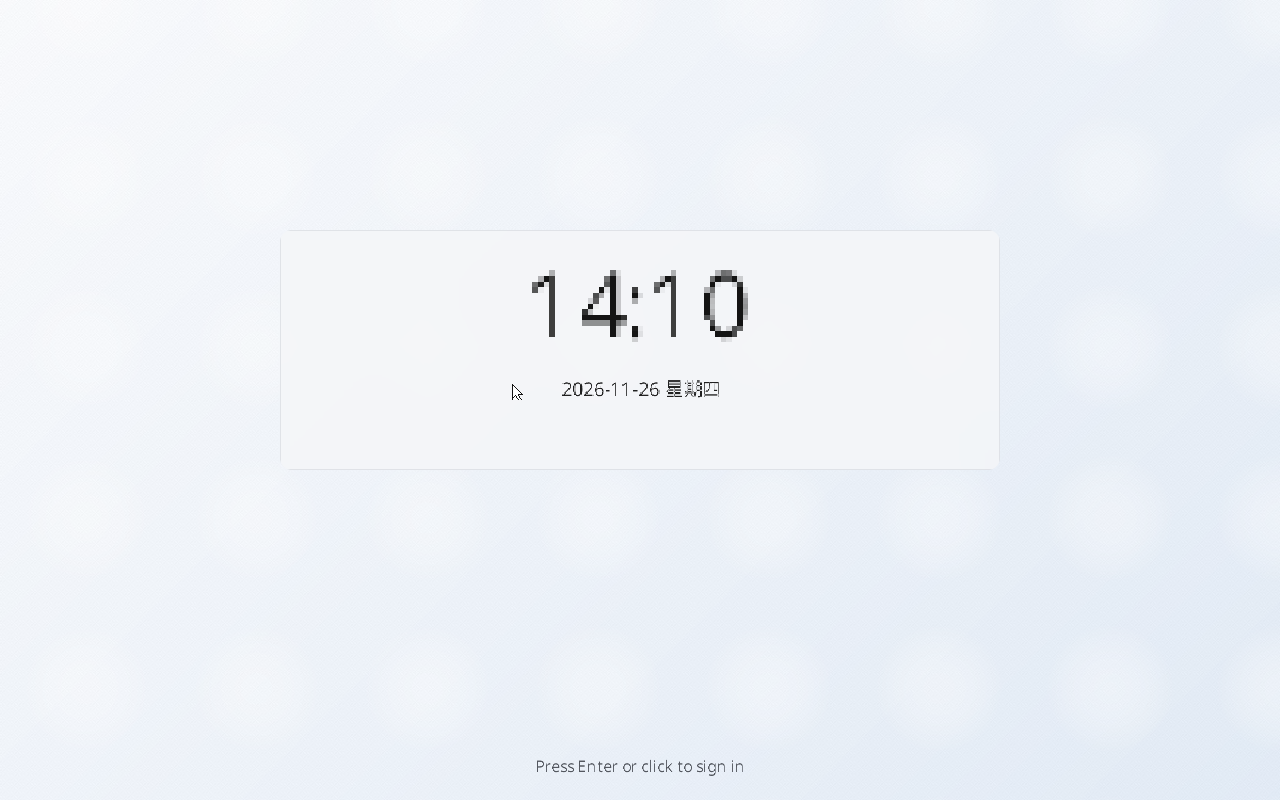
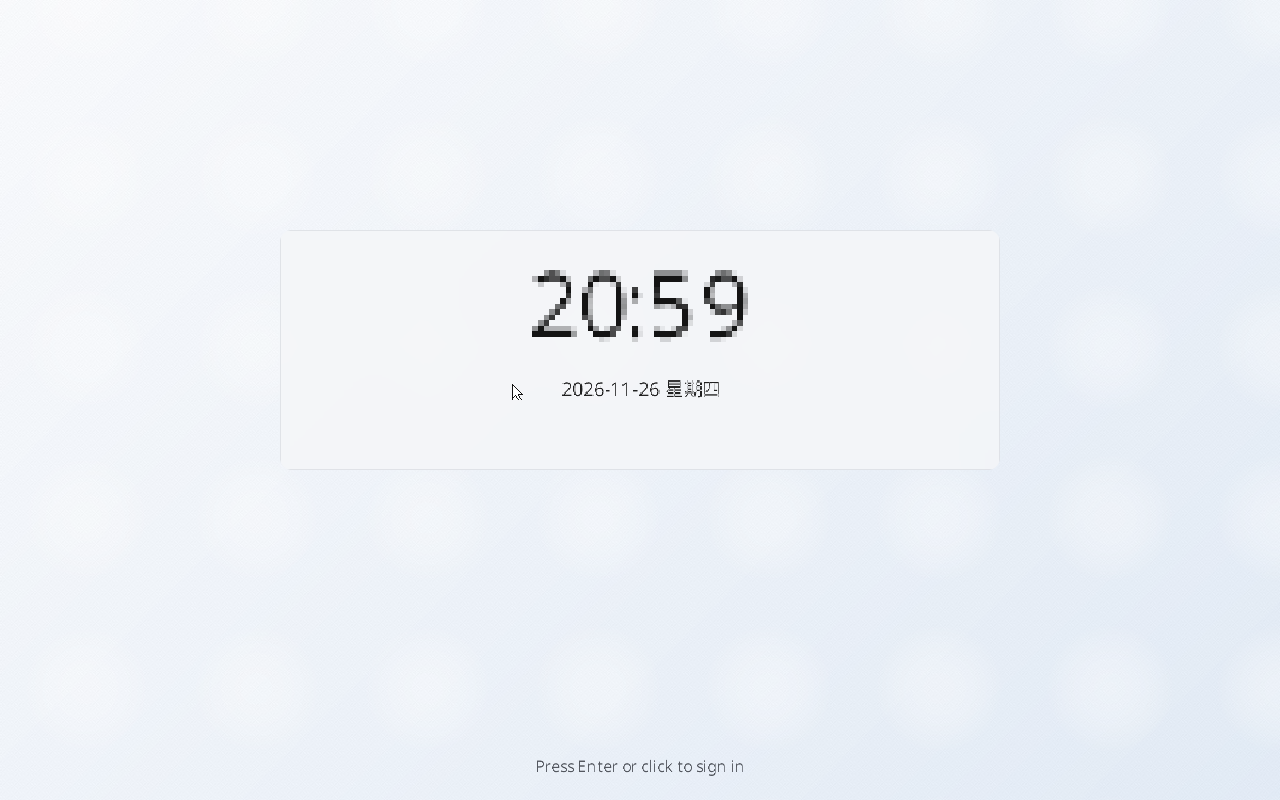
docs(handover): v0.12.4 netsurf-ready 封存单 + 下一步严格路线图 + README 头图重拍
交接单 docs/handover/HANDOVER_v0124_netsurf_ready.md（246 行）：
- §2 现场四条核对（HEAD 5ce56c4a / status / 内核 3,597,216 B / qemu=0）
- §3 已完成能力表（不要重做）：TLS 1.3 真连通 22/22、14 库 501 .c / 3,885,334 B、
  whole-archive 门禁 [NSLINK] ALL OK
- §4 五步路线（不许跳步）：
  ① smoke 装卷在客人里真跑（ns_pack_win.py / nssmoke64_test.py / [SMOKE] root=html + result=PASS）
  ② content/fetchers/vimtu.c（HTTP/1.1 GET，HTTPS 复用 httpsprobe.c 的 mbedtls_ssl_set_bio）
  ③ frontends/vimtu/（wl_surface 画布 + Edge 风格外壳：标签页/地址栏/前进后退/下载管理）
  ④ NetSurf 本体 ~340 .c（content/ 78 + desktop/ 31 + utils/ 31 + render/）
  ⑤ 发版门槛
- §5 坑清单 9 条 / §6 接口速查 / §7 改动文件 / §8 复现命令 / §10 纪律

HANDOVER.md：索引表顶部追加 v0124_netsurf_ready 一行（旧行一字未动）。

README 头图重拍（tools/shots_fresh.py --only 01_lock,02_desktop）：
- 01_lock.png    1280x800 371,879 B ink=99.8%
- 02_desktop.png 1280x800 436,238 B ink=100.0%
- tools/shots_fresh.py 新增 --only（只拍指定几张，省时间），默认行为不变（9 张全拍）

Changed region(s): [[0.4062, 0.3125, 0.5938, 0.4375]]

diff --git a/tools/shots_fresh.py b/tools/shots_fresh.py
@@ -118,6 +118,9 @@ def main():
     ap.add_argument("--img", default=os.path.join(ROOT, "build64", "system.img"))
     ap.add_argument("--out", default=os.path.join(ROOT, "docs", "images"))
     ap.add_argument("--port", type=int, default=5693)
+    # ★ v0.12.5：--only 01_lock,02_desktop 只拍指定的那几张（拍 README 头图时用，省时间）。
+    #   取值是产物名（不带 .png）；不给就是 9 张全拍。
+    ap.add_argument("--only", default=None)
     args = ap.parse_args()
 
     qemu = find_qemu()
@@ -156,6 +159,13 @@ def main():
                 return False
             time.sleep(0.25)
         return False
+
+    want = None
+    if args.only:
+        want = set(x.strip() for x in args.only.split(",") if x.strip())
+
+    def need(name):
+        return want is None or name in want
 
     shots = []
     try:
@@ -198,7 +208,8 @@ def main():
         if not wait_for("[LOCK64] bg blur ready", 240):
             print("环境问题：等不到锁屏就绪")
             return 2
-        shot("01_lock", settle=1.5)
+        if need("01_lock"):
+            shot("01_lock", settle=1.5)
 
         print("=== 2) 回车两次进桌面 ===")
         mon.key("ret", wait=1.2)
@@ -206,7 +217,12 @@ def main():
         if not wait_for("[GUI64] ready", 200):
             print("环境问题：进不了桌面")
             return 2
-        shot("02_desktop", settle=2.5)
+        if need("02_desktop"):
+            shot("02_desktop", settle=2.5)
+
+        # --only 只要锁屏/桌面时，到这里就收工（后面的应用窗口一张都不拍）
+        if want is not None and not any(n.startswith(("03", "04", "05", "06", "07", "08", "09")) for n in want):
+            raise SystemExit(0)
 
         print("=== 3) 开始菜单（Win 键）===")
         mon.key("meta_l", wait=1.8)
@@ -272,7 +288,8 @@ def main():
     print("\n共 %d 张 -> %s" % (len(shots), args.out))
     for n, w, h, r in shots:
         print("  %-14s %dx%d ink=%.1f%%" % (n, w, h, r * 100))
-    return 0 if len(shots) >= 9 else 1
+    expected = 9 if want is None else len([n for n in want if n[:2].isdigit()])
+    return 0 if len(shots) >= expected else 1
 
 
 if __name__ == "__main__":

diff --git a/docs/handover/HANDOVER_v0124_netsurf_ready.md b/docs/handover/HANDOVER_v0124_netsurf_ready.md
@@ -1,0 +1,246 @@
+# HANDOVER v0.12.4 · netsurf-ready —— 浏览器落地的**下一段**从这两份文件开始
+
+- 日期：2026-11-26
+- 版本链：`0.12.4`（**已发布**，tag `v0.12.4` → commit `3195826a`，Release **`459287202`**）
+- 本单 HEAD：`5ce56c4a`（= 远端 `main`，tree 回读 14,764 项 / bad=0）
+- 内核映像：**3,597,216 B**（本单阶段**零内核改动**；与发版那颗逐字节相同）
+- 前置单（按顺序读）：
+  1. `docs/handover/HANDOVER_v0124_tls.md` —— 真 HTTPS 打通（22/22 PASS）
+  2. `docs/handover/HANDOVER_v0125_netsurf_libs.md` —— 14 个依赖库 + 链接门禁（**本单是它的"下一步"部分**）
+- 用户需求原文：`C:\Users\fanqi\Desktop\网络与浏览器生态.txt`
+
+> 本单的唯一用途：**上下文快用完时封存现场**，让下一个零上下文的会话能够**直接开始写浏览器**，
+> 不需要重新摸一遍 14 个库怎么编、也不需要重新发明前端该怎么接。
+
+---
+
+## 1. 一句话
+
+v0.12.4 **已发布**（TLS 1.3 + 证书链校验 + 错证书必须失败），NetSurf 的 **14 个依赖库全部编译通过**
+且通过 **whole-archive 链接门禁**（`[NSLINK] ALL OK`）。**现在缺的只有"接起来"**：
+① 让 smoke 在客人里真跑；② `content/fetchers/vimtu.c`（socket + mbedTLS 抓取）；
+③ `frontends/vimtu/`（wl_surface 上的 Edge 风格外壳：标签页 / 地址栏 / 前进后退 / 下载管理）。
+
+---
+
+## 2. 现场（复现前先核这四条）
+
+```
+git log --oneline -3          -> 5ce56c4a / 3195826a / 585b29ab
+git status --short            -> 空（只剩仓库本来就未跟踪的 Fonts/*.ttf）
+ls -l build64/kernel64_os.bin -> 3,597,216 B   (VIMTUOS_VERSION="0.12.4")
+Get-Process qemu-system-x86_64 -> 0
+```
+
+| 项 | 值 |
+|---|---|
+| 已发布 tag | `v0.12.4`（annotated，tag 对象 `fb0cf8e8…` → commit `3195826a`） |
+| 已发布 Release | **`459287202`**（draft=false / pre=false，2 附件） |
+| ISO | 94,529,536 B `sha256:16ebe7fb21b2dc31379544f5e08758a89e0bcd36f99db21a2d9887a771ab553d` |
+| IMG | 43,754,496 B `sha256:362265b2b091fc2a58a5af73ee89c60f440d1c2e5416d0d2dff8312d45601fca` |
+| 旧版 v0.12.2 附件 | img `794084066` / iso `794082828`：id+size+digest+updated_at **逐条未动** |
+| NetSurf 库产物 | `build64/netsurf/lib/*.a` —— 14 个，合计 **3,885,334 B**（**不进仓**） |
+| mbedTLS 产物 | `build64/mbedtls/libmbedtls.a` = 1,527,458 B |
+| 上游源码 | `third_party/{mbedtls,netsurf,expat,zlib,ca}/`（**不进仓**，脚本按钉死版本现拉） |
+
+---
+
+## 3. 已经做完的（不要重做）
+
+| 能力 | 判据 | 在哪 |
+|---|---|---|
+| 内核 socket 层（TCP 按序号收/64 KiB 窗口/校验和/RTO/网关/本机地址） | `https64_test` 22/22 | `HANDOVER_v0122_net_l4.md` + `HANDOVER_v0124_tls.md` |
+| ring3 HTTPS（mbedTLS 3.6.2 + 证书链 + TLS 1.3 + 错证书失败） | `[TLS] pos handshake ok version=TLSv1.3` / `neg ret=-0x2700` | `/bin/httpsprobe`，`HANDOVER_v0124_tls.md` §3.3 |
+| 真墙钟（证书有效期判定） | `[TIME64] anchor=rtc epoch=…`（与宿主差 ~70 s） | `kernel/x86_64.cpp` `rtc_epoch64()` |
+| 14 个 NetSurf 依赖库 | `[<LIB>] cc ok=N fail=0 archive=… symbols=…` × 14 | `tools/netsurf_lib_build_win.sh` |
+| 库之间自洽（whole-archive） | `[NSLINK] whole-archive ok=1 archives=14` | `tools/netsurf_linkgate_win.sh` |
+| 库 API 真能调用（wapcaplet→hubbub→dom 解 HTML） | `[NSLINK] smoke elf=735304 … base=0x100090000` | `user/netsurf/smoke.c` |
+
+**14 个库的规模（本轮实测）**：libwapcaplet 1 / libparserutils 15 / libhubbub 31 / **libcss 306**（含 120 个
+生成的属性解析器）/ libnsgif 2 / libnsbmp 1 / libnsutils 3 / libnspsl 1 / libnslog 4 / libsvgtiny 6 /
+librosprite 1 / **libdom 96**（含 `bindings/hubbub` + `bindings/xml` 的 expat 绑定）/ expat 5 / zlib 15。
+
+**生成步骤（不做就编不过，脚本已内置）**：
+`perl make-aliases.pl`（libparserutils）/ `perl make-entities.pl`（libhubbub）/
+宿主编 `gen_parser` 生成 120 个 `autogenerated_*.c`（libcss）/ `bison -d -t --define=api.prefix={filter_}` +
+`flex --header-file`（libnslog）/ `tools/netsurf_gen_expat_config.py`（expat）。
+两个 **gperf 手写替身**：`tools/netsurf_gen_hubbub_element_type.py`（106 条）、
+`tools/netsurf_gen_svgtiny_colors.py`（147 条）。
+
+---
+
+## 4. 下一步路线图（**严格按这个顺序，不许跳步**）
+
+### ① 让 smoke 在客人里真跑（半天，**先做这个**）
+
+为什么先做它：本轮只证明了"能编 + 能链"，**没证明能在 ring3 跑起来**。
+库里的 `malloc/free`、`wcrtomb`、`getenv`、浮点、`strtod` 等一旦在客人里缺东西，
+现在就会发现，而不是等浏览器写到一半才发现。
+
+| 子步 | 做法 | 判据（硬） |
+|---|---|---|
+| ①-1 装卷 | `tools/ns_pack_win.py`（**照抄 `tools/tls_pack_win.py`**）：`/bin/nssmoke` = `build64/netsurf/smoke/smoke.elf`，`--fixture-img` 模式写 `/etc/ns_smoke.on` | `卷内读回 /bin/nssmoke … 宿主 sha256=… 卷内 sha256=…` 一致 |
+| ①-2 启动钩子 | `kernel/kernel64.cpp` 里再写一段（**照抄 `[TLS64]` 那段**，真进程路径 `proc64_create64 + proc64_start_elf64`，看门狗 pause/unpause，240 s 有界等待；`elf64_run64` 会 `reject reason=busy`） | `[NSSMOKE] probe on flag=/etc/ns_smoke.on` + `[NSSMOKE] done pid-exit rc=0 code=0` |
+| ①-3 验收脚本 | `tests/nssmoke64_test.py`（照抄 `tests/https64_test.py` 的骨架：造夹具盘 → 起 QEMU → 读串口 → 逐条断言） | 串口出现 `[SMOKE] root=html` + `[SMOKE] result=PASS`；无 `#PF`；跑完桌面栈照常起来 |
+| ①-4 缺什么补什么 | 若 `#PF` / `-ENOSYS`：**按 syscall 号在 `kernel/syscall64.cpp` 补**（不移植整个 POSIX）；musl 缺的纯计算函数补进 `user/netsurf/libm_shim.c` 那种 shim | 每次补完重跑 ①-3，判据不放宽 |
+
+> 已知可能要碰的：`clock_gettime`（已有）、`gettimeofday`、`stat`/`fstat`（文件大小/时间）、
+> `lseek`、`read` 大块、`mmap` 匿名大块（libcss 的样式表缓冲）、`snprintf` 的浮点格式（`%f`）。
+
+### ② `content/fetchers/vimtu.c`（1~1.5 天）
+
+- 放在 `third_party/netsurf/netsurf/content/fetchers/vimtu.c`（上游目录里加一个 fetcher，不改别的 fetcher）。
+- 只实现 **HTTP/1.1 GET**（+ 可选 HEAD）：`setup()` 解析 URL → 建 socket → `lli`（`nsurl`）；
+  `start()` 连 `connect(443/80)`；HTTPS 走 **mbedTLS**（**完全复用 `user/tls/httpsprobe.c` 的 BIO 写法**：
+  `mbedtls_ssl_set_bio` + 自写 send/recv 回调，`-EAGAIN` → `WANT_READ/WANT_WRITE`）。
+- 回调顺序（NetSurf 的约定，别自己发明）：
+  `fetch_vimtu_*` 里发 `FETCH_HEADER`（状态行 + 头）→ `FETCH_DATA`（正文字节，可分块）→
+  `FETCH_FINISHED` / `FETCH_ERROR`。
+- CA 包直接读 **`/etc/ssl/certs/ca.pem`**（v0.12.4 已随系统卷交付，118 份根证书）。
+- 判据：**宿主侧**收到 `GET / HTTP/1.1` + 客人侧 `FETCH_FINISHED` + 正文字节数 == Content-Length；
+  再跑一次"错证书站点"必须 `FETCH_ERROR`（不许静默降级）。
+
+### ③ `frontends/vimtu/`（2~3 天，**这就是"浏览器壳子"**）
+
+以 NetSurf 自带的 **`frontends/framebuffer/`** 为模板（最小、无 GUI 工具包依赖），实现这些表：
+
+| 要实现的 | 我们这边对应什么 |
+|---|---|
+| `gui_table`：`window_create/destroy/invalidate/get_dimensions/set_url/set_title/set_status/set_scroll/…` | `wl_surface_create(15)` + `shm_create(13)`/`shm_map(14)` 拿画布 → `attach(16)/damage(17)/commit(18)` |
+| `plot_table`：`rectangle/line/polygon/fill/bitmap/text/clip/flush` | 画到自己的 shm 画布（`fb_*` 风格），圆角/阴影按 `gui_rs` 的 Token |
+| `fb_table`（字体） | **内核光栅化 12 号 ABI**（`font64`），CJK 走 `subset` 字库（v0.11.x 已有） |
+| `bitmap_table` | 32bpp 位图（libnsbmp/libnsgif/libsvgtiny 解出来的就是它） |
+| `utf8` / `search` / `clipboard`（可选） | 先留空实现，别为了它们卡进度 |
+| 事件 | `input_poll` + `wl_seat_post(26)` 的鼠标/键盘 → NetSurf 的 `browser_window_*` |
+
+**Edge 风格外壳的 UI 规格（用户原话的落地）**：
+
+- **标签页条**（高 40 px）：圆角 8 px、当前页高亮、`+` 新标签、"×"关闭（关闭要真的 `browser_window_destroy`）；
+- **地址栏**（高 40 px）：左侧 ⓘ、中间输入框（默认 `bing.com`，输入即搜索）、右侧刷新/收藏；
+- **前进/后退/主页/刷新** 四按钮（状态由 `browser_window_get_*` 真值驱动，**不是假灰**）；
+- **下载管理**：NetSurf 的 `download_context` → 落 `/Downloads/<文件名>`，进度条 + 取消；
+- **状态栏**（高 24 px）：显示 `browser_window` 的 status + 进度；
+- 判据：**像素**（打开 `example.com` 后正文区有墨迹、地址栏有 URL 文本）+ 点链接能触发下载 +
+  下载完成后宿主侧 sha256 与客人 `/Downloads` 内文件一致。
+
+### ④ 把 NetSurf 本体编起来（约 340 个 .c）
+
+- 需要：`netsurf/content/`（78 .c）+ `netsurf/desktop/`（31）+ `netsurf/utils/`（31）+ `netsurf/render/` + `netsurf/css/`…
+  **本轮的 `tools/netsurf_lib_build_win.sh` 可以直接照抄成第 15、16… 个条目**（加 `SRC_DIRS` 与 `INCS` 即可）。
+- 依赖检查顺序：先 `desktop/` + `utils/`（少依赖），再 `content/`，最后 `render/` + `frontends/vimtu/`。
+- 需要 `-DWITH_NSLOG`（libnslog 已就绪）、`-DNETSURF_USE_*`（全部关掉不需要的：`_SVG=1`、`_BMP=1`、`_GIF=1`、
+  `_PNG` 关、`_JPEG` 关、`_RSVG` 关、`_WEBP` 关）。
+
+### ⑤ 发版门槛（v0.12.5 / v0.12.6 什么时候能发）
+
+必须同时满足：① `version64_test` 8/8；② `https64_test` 22/22；③ `rand64_test` 17/17；
+④ `netping64_test` PASS；⑤ **`nssmoke64_test` PASS**（①的产物）；⑥ **`browser64_test`**：
+真站点取回 + 正文像素判据 + 下载 sha256；⑦ `iso64_test` 不回归。
+缺一条就**只提交代码 + 交接单，不发版**。
+
+---
+
+## 5. 坑清单（本轮新踩的，按会咬人排序）
+
+1. **`--whole-archive` 才是"能用"的判据**。静态库默认只拉被引用的成员，"链上了"什么都证明不了。
+   它一次抓出 4 类真问题：`fabs/fabsf` 缺对象、libcss `} _ALIGNED;` 的重复符号、
+   生成器程序自带 `main` 混进 `.a`、libdom 的 `bindings/` 不在 `src/` 下。
+2. **`ls dir/*.c` ≠ `find`**：libcss 的 `src/select` 有 4 层子树，按 `dir/*.c` 只编到 **59/187**，
+   而 `cc ok=59 fail=0` 看着像成功 —— **残废的绿**。一律用 `find … -name '*.c'` + `sort -u`。
+3. **生成器程序要排除、obj 目录要每次清空**：否则被排除文件上次的 `.o` 还在，照样被打进归档。
+4. **libnslog 的 bison 必须带 `api.prefix={filter_}`**（官方按 bison 大版本切换）；
+   不带就只有 `yyparse`，而 `filter.c` 调的是 `filter_parse`。
+5. **msys2 没有 `llvm-nm`**（只有 `nm.exe`）；符号数判据要匹配 `^[0-9a-f]+ [TDBR] `。
+6. **静态 musl 程序要自写 `_start`**（musl 的 crt1.o 有 `lea _DYNAMIC(%rip)`，在 4 GiB+ 的静态非 PIE
+   映像里无处解析 → 产物只剩 2 KB 空壳）。样例：`user/tls/httpsprobe.c`、`user/netsurf/smoke.c`。
+7. **大映像必须链接在 `0x100090000`**（= `USER64_MMAP_VA64`）：内核 mode-2 装载算
+   `base = find_free(USER64_MMAP_VA64, span) - min_vaddr`，基址不等于它就 `base != 0`、绝对地址全错位。
+8. **内核启动期跑用户程序只能用真进程路径**（`app64_run_any64` 在合成器活着时会
+   `[ELF64] reject reason=busy`）。
+9. **QEMU `sendkey` 在 1 fps GUI 下丢字/吞长命令**：所有验收一律"夹具卷开关 + 读串口"，不发键盘
+   （除非就是要按回车进桌面，且按键后**必须读回证据**再继续）。
+
+---
+
+## 6. 关键机制与接口速查（写浏览器时会反复用）
+
+### 6.1 内核 socket / TLS（ring3 可用）
+- `socket(41) / connect(42) / sendto(44) / recvfrom(45) / sendmsg(46) / recvmsg(47) / close(3) / poll(7)`；
+- `-EAGAIN` = 超时（只有 FIN/RST 才返回 0）；`poll` 看得见 socket（`sock64_ready64`）；
+- mbedTLS：`mbedtls_ssl_set_bio(ssl, &bio, bio_send, bio_recv, NULL)`，BIO 回调里
+  `send/recv`，`-EAGAIN → MBEDTLS_ERR_SSL_WANT_WRITE/READ`。**完整样例见 `user/tls/httpsprobe.c`**。
+
+### 6.2 画布 / 窗口（ring3）
+`shm_create(13)` → `shm_map(14)`（拿到像素）→ `wl_surface_create(15)` → `attach(16)` /
+`damage(17)` / `commit(18)`；窗口装饰 `wl_surface_set_decor(28)`、标题 `wl_surface_title(29)`、
+控制 `wl_surface_ctl(30)`；`input_poll` + `wl_seat_post(26)` 收回输入。
+**样例：`user/viewer/viewer.c`（图片查看器，最接近"浏览器外壳"的现有骨架）+ `user/lib/wl.c`。**
+
+### 6.3 字体
+内核光栅化 12 号 ABI（`font64`）；CJK 走构建期子集（`build/font_*.ttf`）；
+`user/lib/font64.c` 是 ring3 版本的同一套实现（可参考它的度量）。
+
+---
+
+## 7. 本单阶段改动（v0.12.4 发版之后）
+
+| 文件 | 性质 |
+|---|---|
+| `tools/netsurf_lib_build_win.sh` | 14 个库的参数化编译（依赖表 / 生成步骤 / EXCLUDE / RECURSE / `-fcommon`） |
+| `tools/netsurf_linkgate_win.sh` | whole-archive 门禁 + smoke 真链接 + ELF 硬约束自检 |
+| `tools/netsurf_gen_hubbub_element_type.py` / `netsurf_gen_svgtiny_colors.py` / `netsurf_gen_expat_config.py` | gperf 替身 ×2 + expat 配置生成 |
+| `user/netsurf/smoke.c` / `user/netsurf/libm_shim.c` | 库栈 API 自证程序 + `fabs/fabsf` |
+| `tools/shots_fresh.py` | 新增 `--only 01_lock,02_desktop`（只拍头图，省时间） |
+| `docs/images/01_lock.png`、`02_desktop.png` | 用当前构建**重拍**（README 头图） |
+| `docs/handover/HANDOVER_v0125_netsurf_libs.md` | 14 个库的详细记录（坑清单在它的 §5） |
+| `docs/handover/HANDOVER_v0124_netsurf_ready.md` | **本单** |
+
+**内核零改动**（本单阶段一行 `kernel/` 都没碰）。
+
+---
+
+## 8. 复现命令（照抄可用）
+
+```powershell
+cd C:\Users\fanqi\Desktop\VimtuOS\Vimtu64
+
+# 上游源码（幂等）
+py -3 tools\fetch_port_sources.py
+
+# 14 个依赖库（clean build 2~3 分钟）
+C:\msys64\usr\bin\bash.exe -lc "bash tools/netsurf_lib_build_win.sh"
+
+# 链接门禁（必须 ALL OK 才继续往下做）
+C:\msys64\usr\bin\bash.exe -lc "bash tools/netsurf_linkgate_win.sh"
+
+# README 头图重拍（只拍锁屏 + 桌面；读串口作证据）
+py -3 tools\shots_fresh.py --only 01_lock,02_desktop
+
+# 已发布的验收（回归用）
+py -3 tests\https64_test.py      # 22/22
+py -3 tests\version64_test.py    # 8/8
+py -3 tests\rand64_test.py       # 17
+py -3 tests\netping64_test.py    # PASS
+```
+
+---
+
+## 9. 接手须读（顺序）
+
+1. 本单 —— 下一步做什么、按什么顺序、判据是什么。
+2. `docs/handover/HANDOVER_v0125_netsurf_libs.md` —— 14 个库怎么编、坑清单。
+3. `docs/handover/HANDOVER_v0124_tls.md` —— TLS 的完整实现与两个 mbedTLS 陷阱（PEM 的 NUL、熵源）。
+4. `tools/netsurf_linkgate_win.sh` 顶部注释 —— 为什么必须 whole-archive。
+5. `user/tls/httpsprobe.c` 文件头 + `user/viewer/viewer.c` —— 一个是最小 TLS 客户端，
+   一个是最接近"浏览器外壳"的现有 ring3 GUI 程序。
+6. `docs/内核边界与架构规则.md` —— **HTML/CSS/DOM/渲染必须在 ring3**，内核只给 socket/时间/网关/画布。
+
+---
+
+## 10. 纪律（全部来自本仓血账，不许破例）
+
+- 结论必须有**串口打点 / 像素判据 / 宿主侧独立解析**三者之一；拿不到就写 `UNVERIFIED`。
+- **"部分绿"不许冒充"全绿"**；判据与事实不符时先修脚本，**但不许放宽强度**。
+- 长跑/回归一律串行（8 GB 宿主）；收尾必须 `Get-Process qemu-system-x86_64` = 0、`git status --short` 空。
+- `PowerShell` 内联 `py -3 -c` 带中文/引号极易挂 → **一律写 `.py` 文件**。
+- `Edit` 工具行号极易错位 → 改前必须 fresh `Read`；批量改优先写 python 按**唯一字面串**替换并 `assert count==1`。

diff --git a/HANDOVER.md b/HANDOVER.md
@@ -12,6 +12,7 @@
 
 | 文件 | 日期 | 版本串 | HEAD | 一句话 |
 |---|---|---|---|---|
+| [HANDOVER_v0124_netsurf_ready.md](docs/handover/HANDOVER_v0124_netsurf_ready.md) | 2026-11-26 | 0.12.4（**已发版**：tag `v0.12.4` / Release `459287202`；本单零代码改动） | `5ce56c4a` | **封存单 + 写浏览器前的严格路线图** —— §2 现场四条核对 + §3“不要重做”的能力表（TLS 1.3 真连通 22/22、14 个库 501 .c / 3,885,334 B、`[NSLINK] whole-archive ok=1 archives=14` / `ALL OK`）+ **五步路线（不许跳步）**：① **smoke 装卷在客人里真跑**（`tools/ns_pack_win.py` 照抄 `tools/tls_pack_win.py`；`kernel/kernel64.cpp` 照抄 `[TLS64]` 真进程钩子 `proc64_create64 + proc64_start_elf64`，`elf64_run64` 会 `reject reason=busy`；`tests/nssmoke64_test.py` 判据 `[SMOKE] root=html` + `[SMOKE] result=PASS`；缺 syscall 按号在 `kernel/syscall64.cpp` 补，预计 `gettimeofday`/`stat`/`lseek`/`mmap` 匿名大块/`snprintf` 的 `%f`）→ ② **`content/fetchers/vimtu.c`**（只做 HTTP/1.1 GET；HTTPS **完全复用 `user/tls/httpsprobe.c` 的 `mbedtls_ssl_set_bio` + 自写 send/recv 回调**，`-EAGAIN` → `WANT_READ/WANT_WRITE`；CA 读 `/etc/ssl/certs/ca.pem`；回调顺序 `FETCH_HEADER` → `FETCH_DATA` → `FETCH_FINISHED`/`FETCH_ERROR`；判据=宿主见到 `GET / HTTP/1.1` + 字节数==Content-Length + 错证书必须 `FETCH_ERROR`）→ ③ **`frontends/vimtu/`**（以 NetSurf 自带 `frontends/framebuffer/` 为模板，实现 `gui_table`/`plot_table`/`fb_table`/`bitmap_table` → `wl_surface_create(15)` + `shm_create(13)`/`shm_map(14)` 画布 + `attach(16)/damage(17)/commit(18)`；**Edge 风格外壳规格**：标签页条 40 px/圆角 8 px/`+`/`×` 真 `browser_window_destroy`、地址栏 40 px 默认 `bing.com`、前进后退主页刷新四按钮按 `browser_window_get_*` 真值、下载管理 `download_context` → `/Downloads/<文件名>`、状态栏 24 px；判据是**像素**）→ ④ 把 NetSurf 本体 ~340 .c 编起来（`content/` 78 + `desktop/` 31 + `utils/` 31 + `render/`，`tools/netsurf_lib_build_win.sh` 直接扩成第 15、16 条目）→ ⑤ 发版门槛；另含 §5 坑清单 9 条、§6 接口速查（socket/TLS、画布窗口、字体 ABI）、§7 改动文件、§8 复现命令、§10 纪律 |
 | [HANDOVER_v0125_netsurf_libs.md](docs/handover/HANDOVER_v0125_netsurf_libs.md) | 2026-11-26 | 0.12.5 阶段（**未 bump**，零内核改动） | 见 git log | **NetSurf 全家桶 14 个库全部编译 + whole-archive 链接门禁通过** —— 一条命令 clean build：libwapcaplet 1 / libparserutils 15 / libhubbub 31 / **libcss 306** / libnsgif 2 / libnsbmp 1 / libnsutils 3 / libnspsl 1 / libnslog 4 / libsvgtiny 6 / librosprite 1 / **libdom 96** / expat 5 / zlib 15 = **501 个 .c，3,885,334 B**（`[<LIB>] cc ok=N fail=0 archive=… symbols=…`）；门禁 `[NSLINK] whole-archive ok=1 archives=14` + `[NSLINK] smoke elf=735304 PT_LOAD=5 base=0x100090000 symbols=708`（静态库默认只拉被引用的成员，所以必须 whole-archive 才能证明库之间自洽；它当场抓出 4 类真问题）；两个 **gperf 手写替身**（libhubbub 元素名 106 条 / libsvgtiny 颜色 147 条，语义等价、线性查找）+ 四处生成步骤（perl aliases/entities、宿主 gen_parser 生成 **120 个 autogenerated_*.c**、bison+flex 且 **必须带 api.prefix={filter_}**、手写 expat_config.h）；坑：`-fno-builtin` 让 fabs 变外部调用而 musl 缺 `fabs.o`（补 `user/netsurf/libm_shim.c`）、libcss `} _ALIGNED;` 是变量声明（要 `-fcommon`）、生成器程序自带 main 混进 .a、`find` vs `ls dir/*.c` 让 libcss 只编到 59/187、libdom 的 bindings 不在 src 下、msys2 没有 llvm-nm。下一轮：把 smoke 装卷在客人里跑通 → `content/fetchers/vimtu.c` → `frontends/vimtu/` → `user/browser/` 壳子 |
 | [HANDOVER_v0124_tls.md](docs/handover/HANDOVER_v0124_tls.md) | 2026-11-26 | 0.12.4（**未发版**） | 见 git log | **真 HTTPS 打通（第二段）** —— ① `/bin/httpsprobe`（mbedTLS 3.6.2 + musl 静态，867,512 B）连 `example.com:443` **协商出 TLS 1.3**（TLS1-3-CHACHA20-POLY1305-SHA256），用 `/etc/ssl/certs/ca.pem`（118 份 Mozilla 根证书）**验证证书链**（`verify_flags=0`，`CN=example.com`，有效期 2026-11-24..2027-02-22），`GET /` 取回 **HTTP/1.1 200 OK**（928 B）；**错证书必须失败**（宿主自签 https → `ret=-0x2700`，宿主侧 TCP 连接数=1 / TLS 握手中途被中止=1）；`tests/https64_test.py` **22/22 PASS**（全程不发键盘，靠夹具卷 `/etc/tls_probe.on` 触发）；② 为它修掉 **5 个真缺陷**：`clock_gettime(CLOCK_REALTIME)` 返回开机秒数（→ 新增 `rtc_epoch64()` CMOS→Unix，证书有效期才判得对）、用户栈 16 KiB 不够 TLS（→ **64 KiB**，连带修 `phys_pages[16]` 越界 + 5 个换栈驱动的硬编码栈顶，新增 `tools/drv_stack_gate.py` 构建期门禁）、`net64_send_ipv4()` **没有网关概念**（公网 TCP 全挂 → 下一跳走网关 MAC）、socket 分配时 `laddr=0` 让 **TCP 校验和全错**（→ 分配即填本机地址）、`mbedtls_x509_crt_parse()` 的 `buflen` **必须含结尾 NUL**（否则每个证书 `INVALID_FORMAT`、CA 形同虚设还会握手『成功』）；③ mbedTLS 移植层：`mbedtls_hardware_poll` → `getrandom(318)` → `kernel/rand64.cpp`，`__udivti3` 等 128 位内建自己补（msys2 的 builtins 是 COFF，lld 不收）；④ 交付链：`tools/tls_pack_win.py`（装卷+逐字节回读）、`tools/fetch_ca_bundle.py`（CA 不进仓）、`tools/httpsprobe_build_win.sh`（ELF 硬约束自检）。回归：`version64_test` **8/8**、`rand64_test` **17/17**、`netping64_test` PASS、`iso64_test` **48/48**（首次跑 `-cpu max` 曾 hits=1，复跑 0 条，已加『打印首条 violation』打点）。内核 **3,597,216 B**（+4,384 B） |
 | [HANDOVER_v0123_net_ready.md](docs/handover/HANDOVER_v0123_net_ready.md) | 2026-11-26 | 0.12.3（**未发版**） | `5f2b44ff` | **封存单：网络与浏览器攻坚第一段** —— ① **硬件级随机数已完成**：`kernel/rand64.cpp`（CPUID 探 RDRAND/RDSEED → 布种 RDSEED 64B / RDRAND / TSC 抖动 32B → SHA-256 计数器 DRBG 出块即 rekey）接管 `getrandom(318)`，`tests/rand64_test.py` **17/17 PASS**（默认 CPU `rdrand=0 seed_src=tsc-jitter hottest=12` / `-cpu max` `rdseed=1 seed_src=rdseed hottest=9`），内核 **3,592,832 B**；② **mbedTLS v3.6.2 源码已拉取并编译出静态库**：`tools/mbedtls_build_win.sh` 用我们自己的 musl 工具链 → `build64/mbedtls/libmbedtls.a` **1,662,810 B**（`cc ok=108 fail=0`）；③ **NetSurf 全家桶 13 个库已拉取**（`tools/fetch_port_sources.py`，按钉死 SHA：netsurf `170d8946` / libcss `0c4f5190`(198 .c) / libdom `e4150b65`(106) / libhubbub `68989e60`(42) / libparserutils `c9971265`(26) / libwapcaplet / libnsgif / libnsbmp / libnsutils / libnspsl / libnslog / libsvgtiny / librosprite + expat + zlib），**编译未开始**；④ README 截图换成当前构建现拍的 9 张（`tools/shots_fresh.py`，逐帧有串口打点；顺手修了 `.gitignore` 把 `docs/images/` 整目录忽略导致旧图根本不在仓里的问题）。**下一轮从① mbedTLS 熵回调 + HTTPS 探针开始**，次序：② SNTP 校时 → ③ 逐个编译 NetSurf 依赖 → ④ wl_surface 现代浏览器 UI 壳子 |
